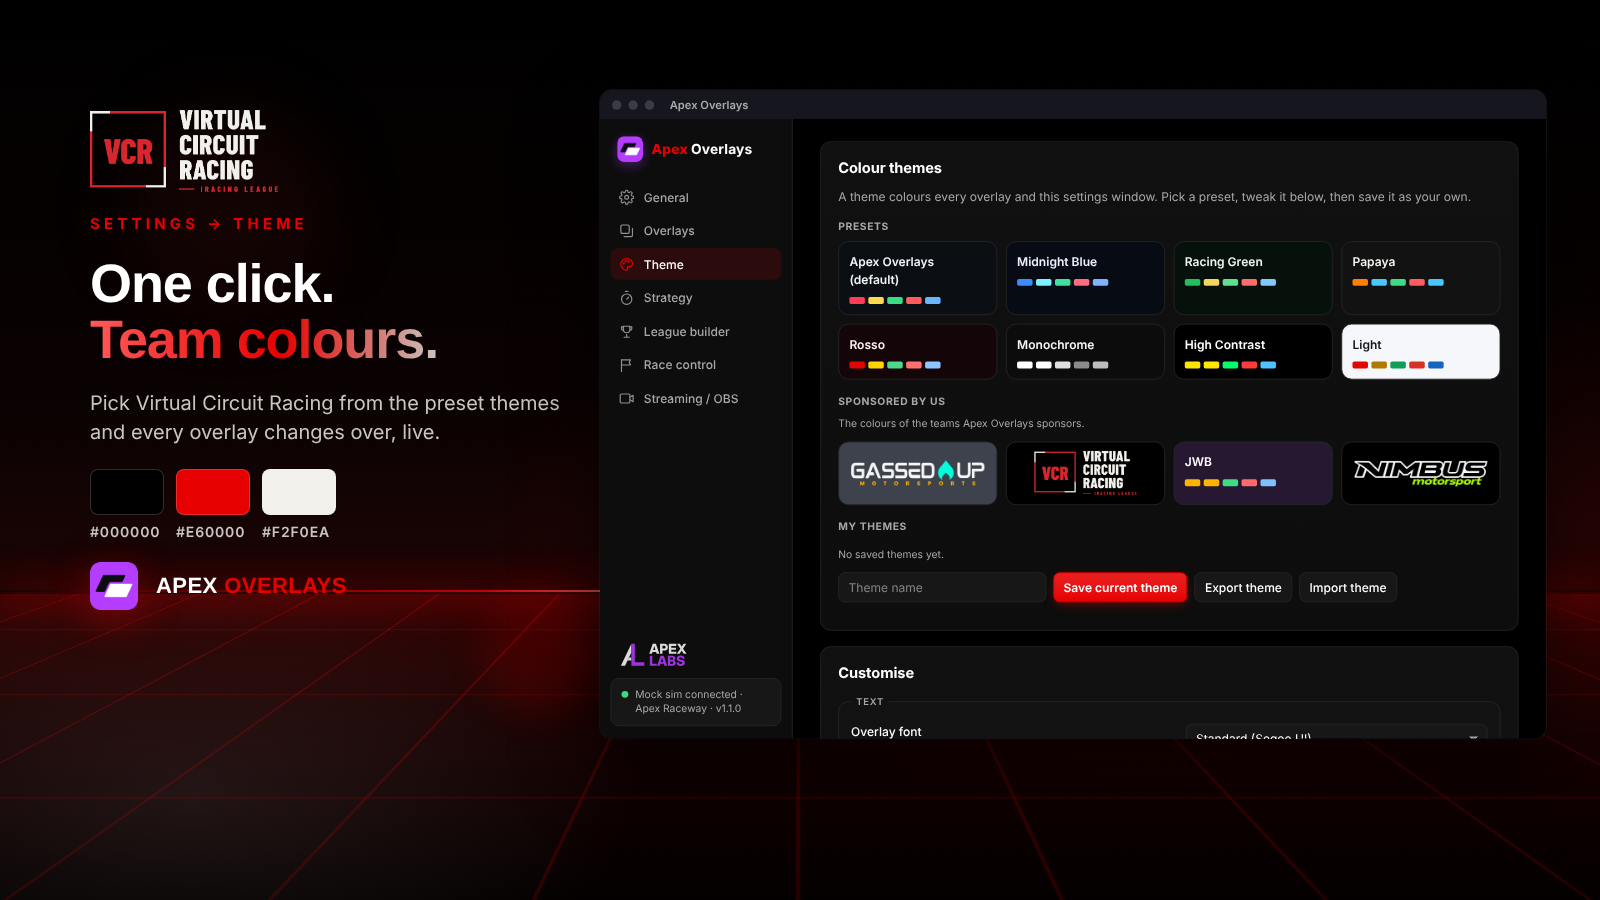
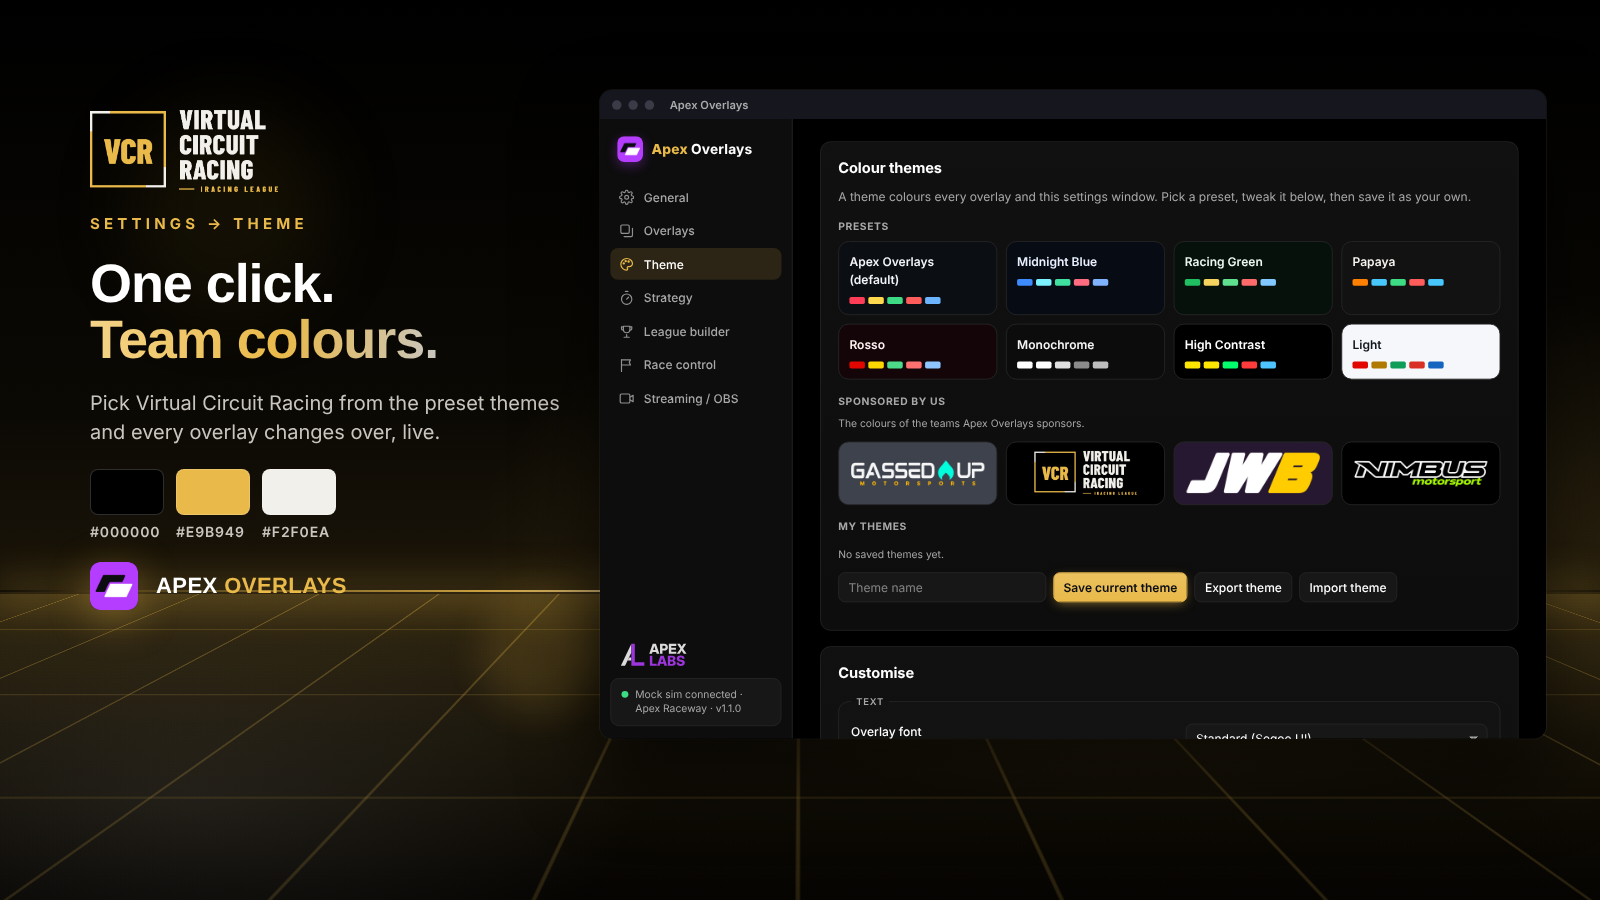
Release 1.1.2 (#32)
* Gain/loss inside the iRating pill; flag abbreviations list in the league builder

- The iRating pill now holds both the rating and the gain/loss arrow.
- League builder roster: a Show Flag Abbreviations button opens a pop-up
  with every code the Flag box accepts (ISO regions from the browser's
  region names, minus groupings, aliases and former countries with no flag,
  plus GB-ENG/GB-SCT/GB-WLS and GLOBE), each with its flag and country
  name. Searchable; clicking a row copies the code.

Claude-Session: https://claude.ai/code/session_01GPu2QpiT75Md8f63JrvxZg

* Monitoring: resource readings, performance widget, General first

- New monitor thread (only while someone watches the monitor topic):
  once a second it measures CPU and memory of the app's process tree
  (the app plus the WebView2 processes of its windows) with sysinfo, the
  PC's CPU, and turns hub counters into rates: data and messages sent to
  overlay windows, telemetry ticks per second and engine time per tick.
- General page: a Monitoring card with live tiles (updated in place, CPU
  sparkline), a switch for the on-screen widget and a shortcut to its
  settings. General moves to the top of the navigation.
- Performance monitor overlay: the readings picked and ordered with the
  column picker, list or row layout, CPU warning level.

Claude-Session: https://claude.ai/code/session_01GPu2QpiT75Md8f63JrvxZg

* Saved layouts and hotkeys for layouts and individual overlays
[…]

diff --git a/ui/src/lib/theme.ts b/ui/src/lib/theme.ts
@@ -199,7 +199,7 @@ export const PRESETS: Preset[] = [
     name: 'VCR',
     sponsored: true,
     logo: '/assets/teams/vcr.png',
-    values: { background: '#000000', headerBackground: '#140000', textColor: '#ffffff', dimColor: '#a8a8a8', accent: '#e60000', playerColor: '#e60000', bestColor: '#c27bff', goodColor: '#3ddc84', badColor: '#ff5c5c', lapAheadColor: '#ffa04d', lapBehindColor: '#6cb4ff' },
+    values: { background: '#000000', headerBackground: '#14110a', textColor: '#ffffff', dimColor: '#a8a8a8', accent: '#e9b949', playerColor: '#e9b949', bestColor: '#c27bff', goodColor: '#3ddc84', badColor: '#ff5c5c', lapAheadColor: '#ff8a8a', lapBehindColor: '#6cb4ff' },
   },
   {
     name: 'JWB',

diff --git a/CHANGELOG.md b/CHANGELOG.md
@@ -4,6 +4,11 @@ The section for each version is shown in the in-app update pop-up and on the Git
 Each version groups its changes under `### New features`, `### Improvements` and `### Fixes`
 (plus `### Performance` or `### Removed` when needed).
 
+## 1.1.2
+
+### Improvements
+- VCR theme: VCR’s new colours, yellow (#E9B949) in place of red, with its new logo on the theme card. Cars a lap ahead are now soft red, so they stand apart from your car’s yellow
+
 ## 1.1.1
 
 ### New features
